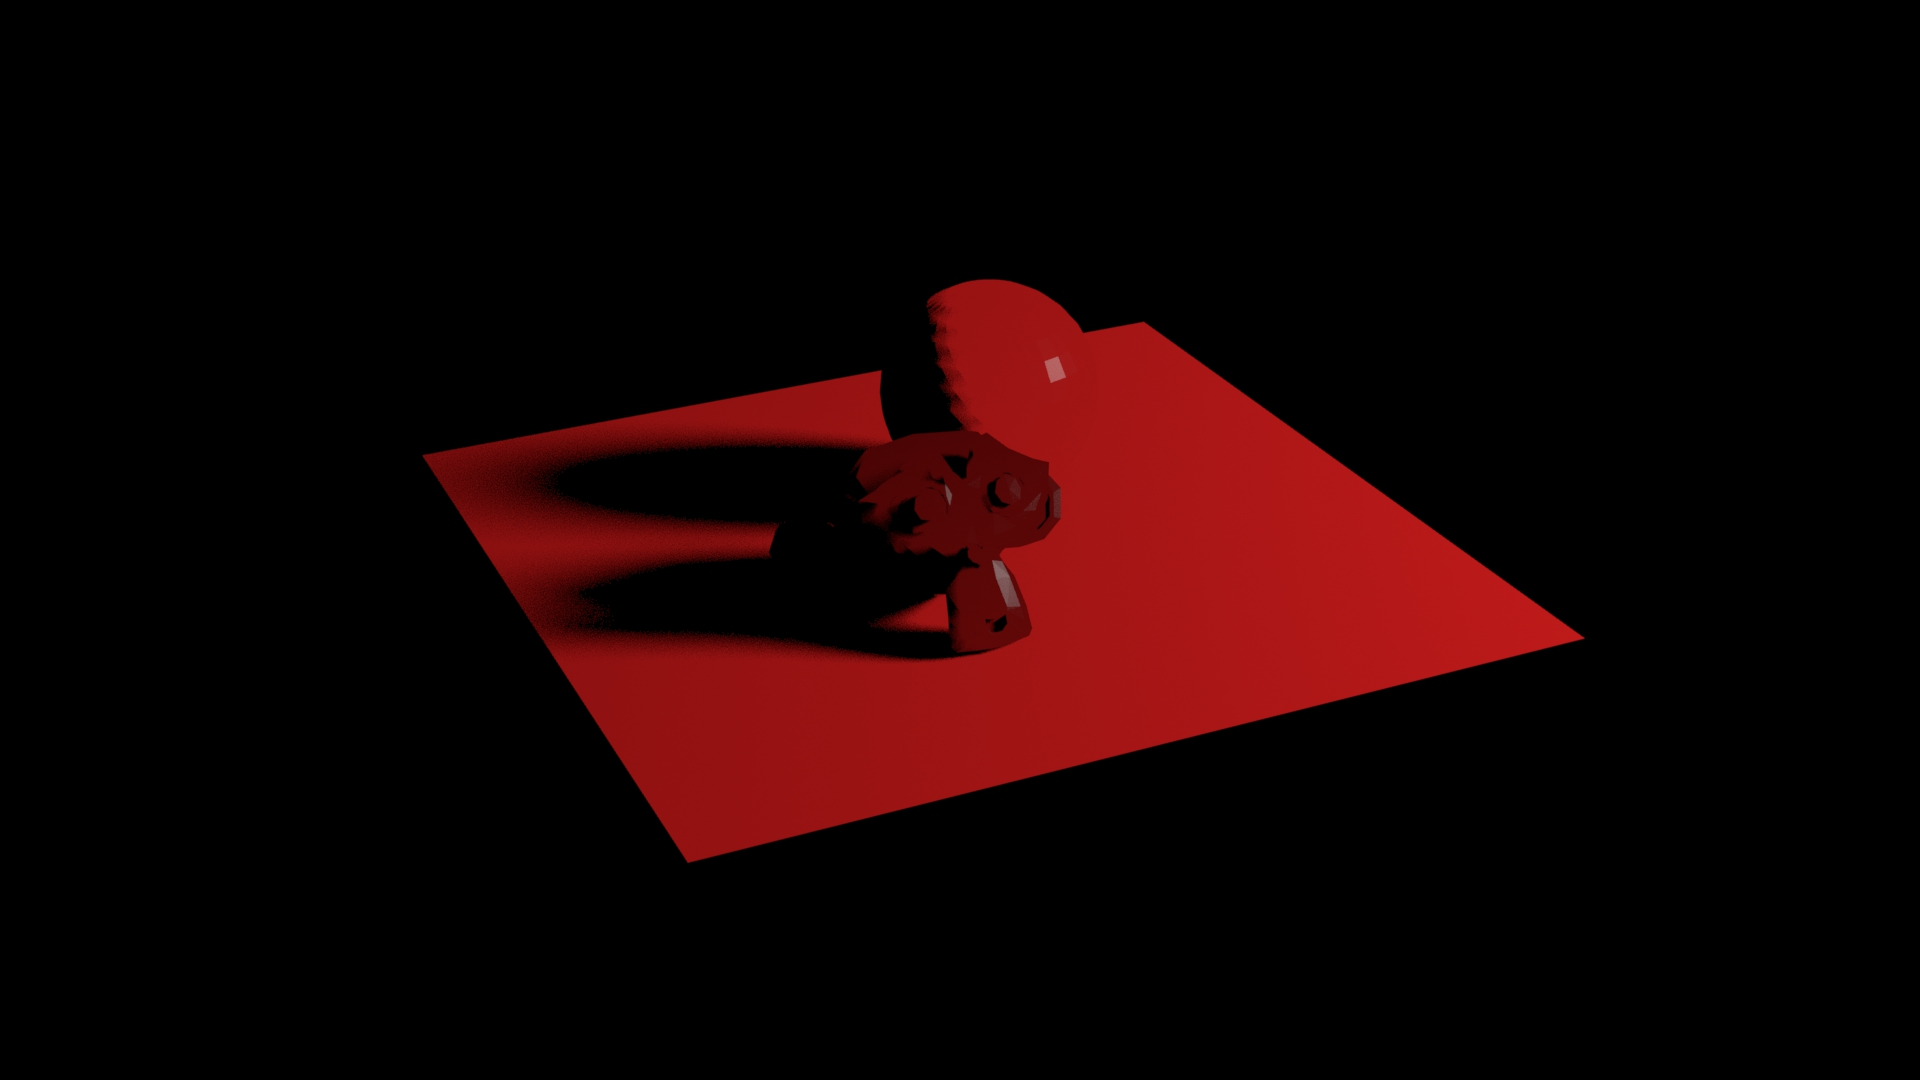
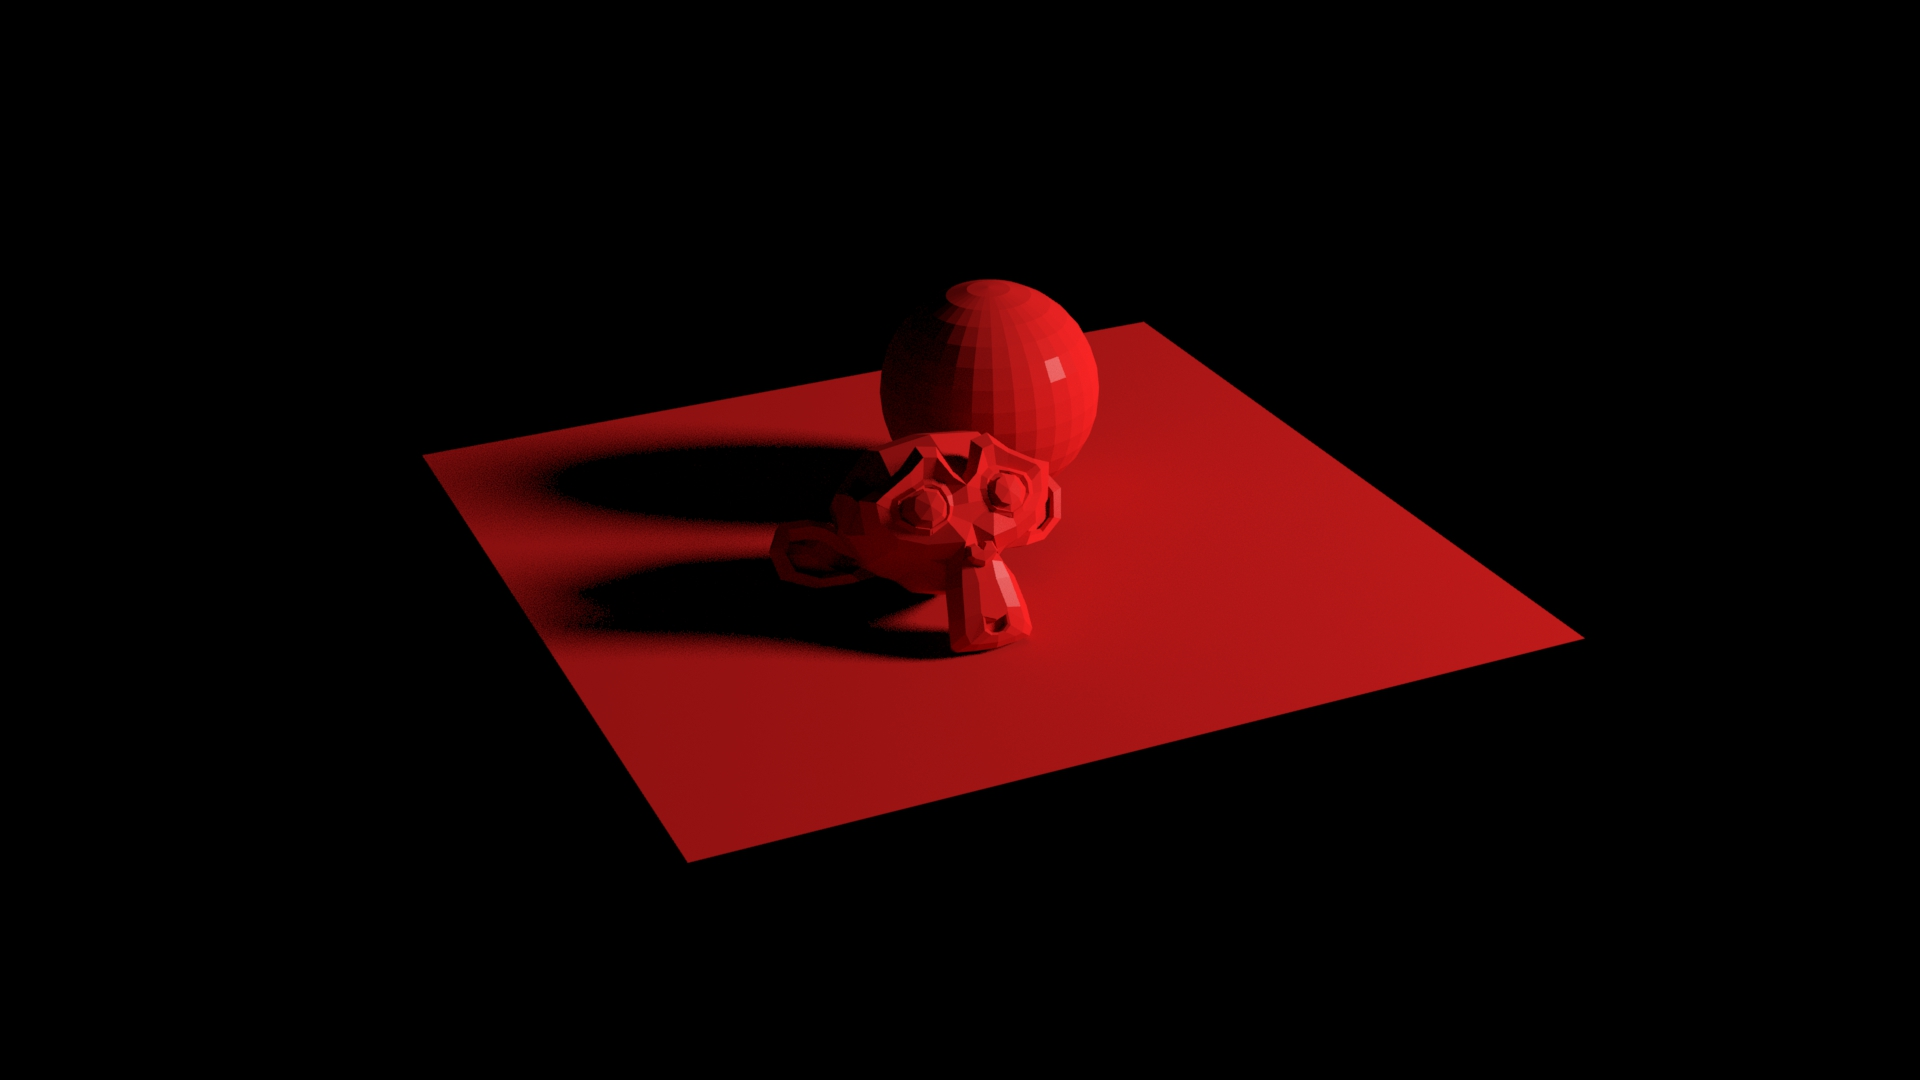
Fixed bug with zero-value normals

Changed region(s): [[0.375, 0.2444, 0.5938, 0.6111]]

diff --git a/btoa/bridge.py b/btoa/bridge.py
@@ -52,6 +52,8 @@ def generate_aipolymesh(mesh):
     vlist = AiArrayConvert(len(verts), 1, AI_TYPE_VECTOR, ctypes.c_void_p(a.ctypes.data))
 
     # Normals
+    mesh.data.calc_tangents()
+
     a = numpy.ndarray(len(loops) * 3, dtype=numpy.float32)
     loops.foreach_get("normal", a)
     nlist = AiArrayConvert(len(loops), 1, AI_TYPE_VECTOR, ctypes.c_void_p(a.ctypes.data))
